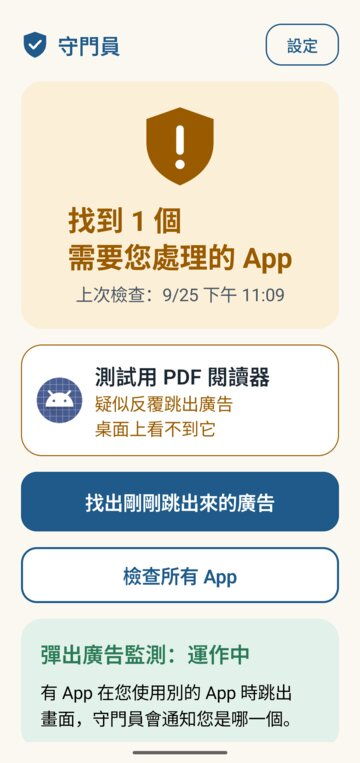
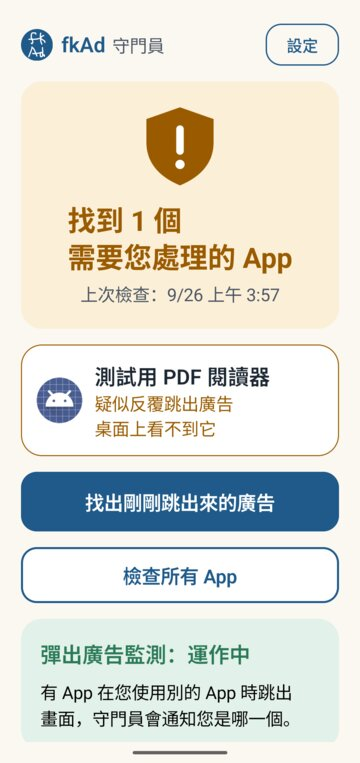
App name on the launcher is now fkAd
- app_name = fkAd; the in-app header shows the fkAd mark with 守門員 beside it
- accessibility hint and README setup steps point to "fkAd", the name shown in system settings
- legacy launcher PNGs regenerated with transparent corners (were black)
- README screenshots updated

Changed region(s): [[0.0611, 0.0301, 0.4583, 0.0904], [0.4583, 0.3617, 0.7944, 0.422], [0.2139, 0.3617, 0.4278, 0.422]]

diff --git a/android/app/src/main/java/org/elderguard/ui/Screens.kt b/android/app/src/main/java/org/elderguard/ui/Screens.kt
@@ -38,7 +38,9 @@ import androidx.compose.ui.graphics.ImageBitmap
 import androidx.compose.ui.semantics.Role
 import androidx.compose.ui.semantics.heading
 import androidx.compose.ui.semantics.semantics
+import androidx.compose.ui.res.painterResource
 import androidx.compose.ui.unit.dp
+import org.elderguard.R
 import org.elderguard.detect.RiskLevel
 
 // ---------------------------------------------------------------- models shown by the UI
@@ -125,9 +127,14 @@ private fun Page(bottom: (@Composable () -> Unit)? = null, content: @Composable 
 @Composable
 private fun BrandBar(onBack: (() -> Unit)? = null, onSettings: (() -> Unit)? = null) {
     Row(verticalAlignment = Alignment.CenterVertically, modifier = Modifier.fillMaxWidth()) {
-        ShieldMark(ShieldState.Brand, 32.dp)
+        // same mark and name as the launcher icon, so the app on the home screen is easy to connect with this screen
+        Image(painterResource(R.drawable.brand_mark), contentDescription = null, modifier = Modifier.size(36.dp))
         Spacer(Modifier.size(10.dp))
-        Text("守門員", style = MaterialTheme.typography.titleLarge, color = Palette.Trust, modifier = Modifier.weight(1f))
+        Row(verticalAlignment = Alignment.Bottom, modifier = Modifier.weight(1f)) {
+            Text("fkAd", style = MaterialTheme.typography.titleLarge, color = Palette.Trust)
+            Spacer(Modifier.size(8.dp))
+            Text("守門員", style = MaterialTheme.typography.bodyMedium, color = Palette.InkSoft)
+        }
         if (onBack != null) TextButton(onClick = onBack) { Text("回首頁", style = MaterialTheme.typography.labelMedium, color = Palette.Trust) }
         if (onSettings != null) OutlinedButton(onClick = onSettings, shape = ButtonShape, border = BorderStroke(1.5.dp, Palette.Trust),
             modifier = Modifier.heightIn(min = 48.dp)) { Text("設定", style = MaterialTheme.typography.labelMedium, color = Palette.Trust) }
@@ -331,7 +338,7 @@ fun SettingsScreen(
         Text("同一個 App 在 30 分鐘內\n第二次跳出全螢幕廣告，\n蓋住您正在用的畫面，\n守門員就自動把它關掉。\n第一次跳出不會動作。",
             style = MaterialTheme.typography.bodyMedium)
         if (s.closerOn && s.closedLast24h > 0) Text("過去 24 小時已經關掉 ${s.closedLast24h} 次。", style = MaterialTheme.typography.bodyMedium, color = Palette.Safe)
-        if (!s.closerOn) Text("要在手機的「無障礙」\n設定裡開啟「守門員」。\n守門員不會讀取\n畫面上的文字。", style = MaterialTheme.typography.bodyMedium, color = Palette.InkSoft)
+        if (!s.closerOn) Text("要在手機的「無障礙」\n設定裡開啟「fkAd」。\n守門員不會讀取\n畫面上的文字。", style = MaterialTheme.typography.bodyMedium, color = Palette.InkSoft)
         SecondaryButton(if (s.closerOn) "去關閉" else "去開啟", onCloserSettings)
     }
 
@@ -364,7 +371,7 @@ fun SettingsScreen(
 
     SecondaryButton("看手機上所有的 App", onAllApps)
     Text("桌面上看不到圖示的 App\n也會列出來。", style = MaterialTheme.typography.bodyMedium, color = Palette.InkSoft)
-    Text("守門員 ${s.version}", style = MaterialTheme.typography.bodyMedium, color = Palette.InkSoft)
+    Text("fkAd 守門員 ${s.version}", style = MaterialTheme.typography.bodyMedium, color = Palette.InkSoft)
 }
 
 @Composable

diff --git a/README.zh-CN.md b/README.zh-CN.md
@@ -63,10 +63,10 @@
 ## 安装（测试版）
 
 1. 到 [Releases](../../releases) 下载 `fkAd-0.5.0-debug.apk` 并安装。需要 Android 8.0 以上。
-2. 打开守门员，点“设置”，按界面把“保护功能需要的权限”全部打开：使用情况访问权限、通知使用权、通知权限、不限制电池。
+2. 打开 fkAd（桌面上显示的名称），点“设置”，按界面把“保护功能需要的权限”全部打开：使用情况访问权限、通知使用权、通知权限、不限制电池。
 3. **OPPO／realme／一加（ColorOS）**：另外到“应用信息 → 耗电管理”打开“允许应用后台行为”。
 4. **vivo**：如果电池页只看到开关，请点“允许后台使用”这几个字，再选“不限制”。
-5. 想开启自动关广告：Android 13 以上，自行安装的应用要先到“应用信息 → 右上角 ⋮ → 允许受限制的设置”，才能在“无障碍”里开启守门员。
+5. 想开启自动关广告：Android 13 以上，自行安装的应用要先到“应用信息 → 右上角 ⋮ → 允许受限制的设置”，才能在“无障碍”里开启“fkAd”。
 
 各品牌系统的菜单名称可能略有不同，以手机上实际显示的为准。
 

diff --git a/README.md b/README.md
@@ -61,10 +61,10 @@
 ## 安裝（測試版）
 
 1. 到 [Releases](../../releases) 下載 `fkAd-0.5.0-debug.apk` 並安裝。需要 Android 8.0 以上。
-2. 打開守門員，按「設定」，照畫面把「保護功能需要的權限」全部打開：使用情況存取、通知存取、通知權限、不限制電池。
+2. 打開 fkAd（桌面上的名稱），按「設定」，照畫面把「保護功能需要的權限」全部打開：使用情況存取、通知存取、通知權限、不限制電池。
 3. **OPPO／realme（ColorOS）**：另外要到「應用程式資訊 → 耗電管理」打開「允許應用程式背景行為」。
 4. **vivo**：如果電池頁只看到開關，請點「允許在背景使用」這幾個字，再選「不限制」。
-5. 想開自動關廣告的話：Android 13 以上，自行安裝的 App 要先到「應用程式資訊 → 右上角 ⋮ → 允許受限制的設定」，才能在「無障礙」裡開啟守門員。
+5. 想開自動關廣告的話：Android 13 以上，自行安裝的 App 要先到「應用程式資訊 → 右上角 ⋮ → 允許受限制的設定」，才能在「無障礙」裡開啟「fkAd」。
 
 ## 開發
 

diff --git a/README.en.md b/README.en.md
@@ -62,12 +62,12 @@ fonts, and Back always goes one page back. See [docs/DESIGN-NOTES.md](docs/DESIG
 ## Install (test build)
 
 1. Download `fkAd-0.5.0-debug.apk` from [Releases](../../releases). Android 8.0 or newer.
-2. Open the app → Settings, and turn on everything under "protection permissions": Usage access, Notification access,
+2. Open **fkAd** (the name on the home screen) → Settings, and turn on everything under "protection permissions": Usage access, Notification access,
    Notifications, Unrestricted battery.
 3. **OPPO / realme (ColorOS):** also enable App info → Battery usage → "Allow background activity".
 4. **vivo:** if the battery page only shows a switch, tap the words "Allow background usage" and choose "Unrestricted".
-5. For auto-close on Android 13+: sideloaded apps first need App info → ⋮ → "Allow restricted settings" before the
-   guard can be enabled under Accessibility.
+5. For auto-close on Android 13+: sideloaded apps first need App info → ⋮ → "Allow restricted settings" before
+   **fkAd** can be enabled under Accessibility.
 
 ## Development
 
